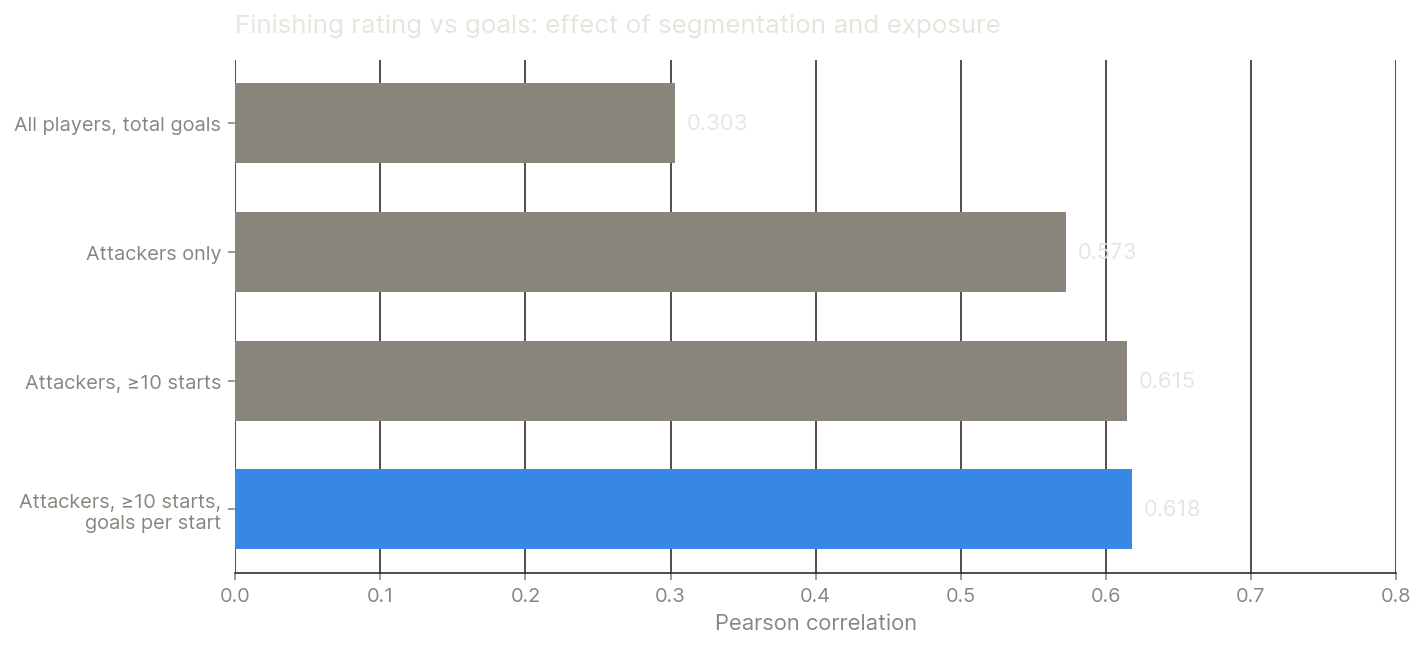
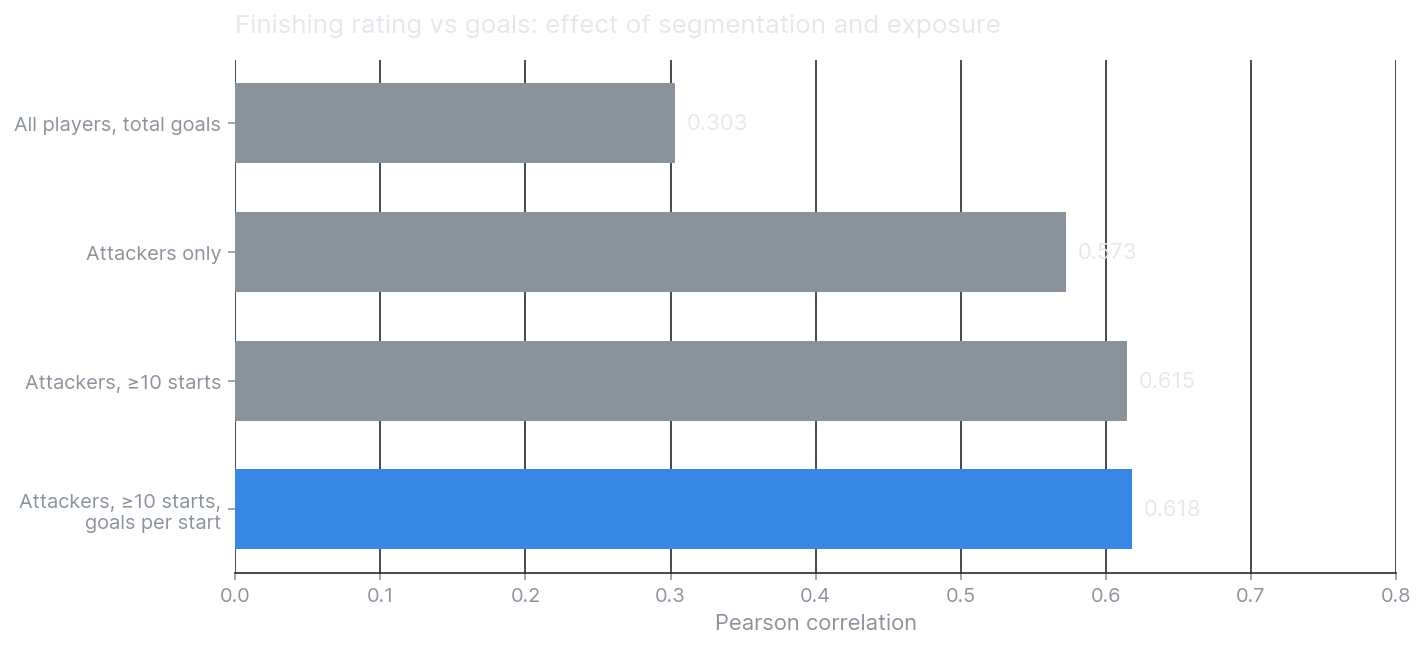
Charts follow the new greys: re-rendered through the updated house style

diff --git a/charts/render_depression.py b/charts/render_depression.py
@@ -36,7 +36,7 @@ def _frame(ax, title: str, xlabel: str = "", ylabel: str = "", grid_axis: str = 
     ax.set_xlabel(xlabel, color=palette.MUTED)
     ax.set_ylabel(ylabel, color=palette.MUTED)
     ax.grid(False)
-    ax.grid(axis=grid_axis, color="#2A2724", linewidth=0.8)
+    ax.grid(axis=grid_axis, color=palette.RULE, linewidth=0.8)
     ax.set_axisbelow(True)
     ax.tick_params(colors=palette.MUTED)
 
@@ -84,7 +84,7 @@ def chart_importance(src: Path, outdir: Path, top: int = 8) -> None:
     colors = [BLUE if f == "age" else palette.MUTED for f in df["feature"]]
     bars = ax.barh(df["feature"].str.replace("_", " "), df["importance"],
                    color=colors, height=0.68, xerr=df["std"],
-                   error_kw={"ecolor": "#2A2724", "elinewidth": 1})
+                   error_kw={"ecolor": palette.RULE, "elinewidth": 1})
     ax.bar_label(bars, fmt="%.4f", padding=6, fontsize=9, color=palette.FG)
     ax.set_xlim(0, df["importance"].max() * 1.22)
     _frame(ax, "Permutation importance: mean drop in ROC-AUC (5 repeats)",
@@ -131,7 +131,7 @@ def chart_tuning(src: Path, outdir: Path) -> None:
     ax.set_ylim(0.86, 0.94)
     _frame(ax, "102 extra model fits bought +0.0001 PR-AUC",
            xlabel="Wall-clock seconds (log scale)", ylabel="Holdout PR-AUC")
-    ax.grid(axis="x", color="#2A2724", linewidth=0.8)
+    ax.grid(axis="x", color=palette.RULE, linewidth=0.8)
     ax.legend(frameon=False, labelcolor=palette.FG, loc="upper left", fontsize=9)
     fig.tight_layout()
     fig.savefig(outdir / "depression-tuning.png")

diff --git a/charts/palette.py b/charts/palette.py
@@ -1,16 +1,17 @@
 """Chart palette. These colors appear ONLY inside chart images.
 
-Site thesis: color is reserved for data. The interface is monochrome, so
-these hexes must never be added to site CSS — the design lint rejects any
-color outside the four interface tokens, and that is correct behaviour.
+Site thesis: color is reserved for data. The interface is a cool monochrome,
+so these hexes must never be added to site CSS: the design lint rejects any
+colour that is not a token in src/styles/tokens.css, and that is correct.
 """
 
 from matplotlib.colors import LinearSegmentedColormap
 
 # Site tokens, mirrored so charts match the page exactly.
-BG = "#0F0E0C"
-FG = "#E8E4DC"
-MUTED = "#8A857C"
+BG = "#0B0D10"
+FG = "#E4E7EB"
+MUTED = "#8A929C"
+RULE = "#1F242B"
 
 # Categorical palette chosen under the dataviz skill: colorblind-safe and
 # legible on BG, validated at >=3:1 contrast against the site surface.

diff --git a/charts/render_football.py b/charts/render_football.py
@@ -2,7 +2,7 @@
 
 The project's own `football_analytics.py` renders these on a white background
 with navy/grey bars. That is fine in the project repo, but a white chart on a
-#0F0E0C page reads as a lightbulb. This script recomputes the same figures from
+#0B0D10 page reads as a lightbulb. This script recomputes the same figures from
 the already-derived fact table and re-renders them transparent, in house colors.
 
 Definitions are copied from `football_analytics.py` exactly — in particular
@@ -55,7 +55,7 @@ def _frame(ax, title: str, xlabel: str = "", grid_axis: str = "x") -> None:
     ax.set_xlabel(xlabel, color=palette.MUTED)
     ax.set_ylabel("")
     ax.grid(False)
-    ax.grid(axis=grid_axis, color="#2A2724", linewidth=0.8)
+    ax.grid(axis=grid_axis, color=palette.RULE, linewidth=0.8)
     ax.set_axisbelow(True)
 
 

diff --git a/charts/render_ml_lab.py b/charts/render_ml_lab.py
@@ -69,7 +69,7 @@ def main() -> int:
     ax.set_title("Four classifiers, and the rule that needs no data at all",
                  loc="left", fontsize=13, color=palette.FG, pad=14)
     ax.grid(False)
-    ax.grid(axis="y", color="#2A2724", linewidth=0.8)
+    ax.grid(axis="y", color=palette.RULE, linewidth=0.8)
     ax.set_axisbelow(True)
     ax.tick_params(colors=palette.MUTED)
 

diff --git a/charts/README.md b/charts/README.md
@@ -16,7 +16,7 @@ fig.savefig('src/assets/viz/my-chart.png')  # transparent bg, site fonts
 
 ## Rules
 
-- Never export a white background. The site is `#0F0E0C`.
+- Never export a white background. The site is `#0B0D10`.
 - Categorical colors come from `palette.py`. Do not invent per-chart colors.
 - Gradients ARE allowed here: a sequential colormap encoding a continuous
   variable is correct data visualization. The site's gradient ban covers
